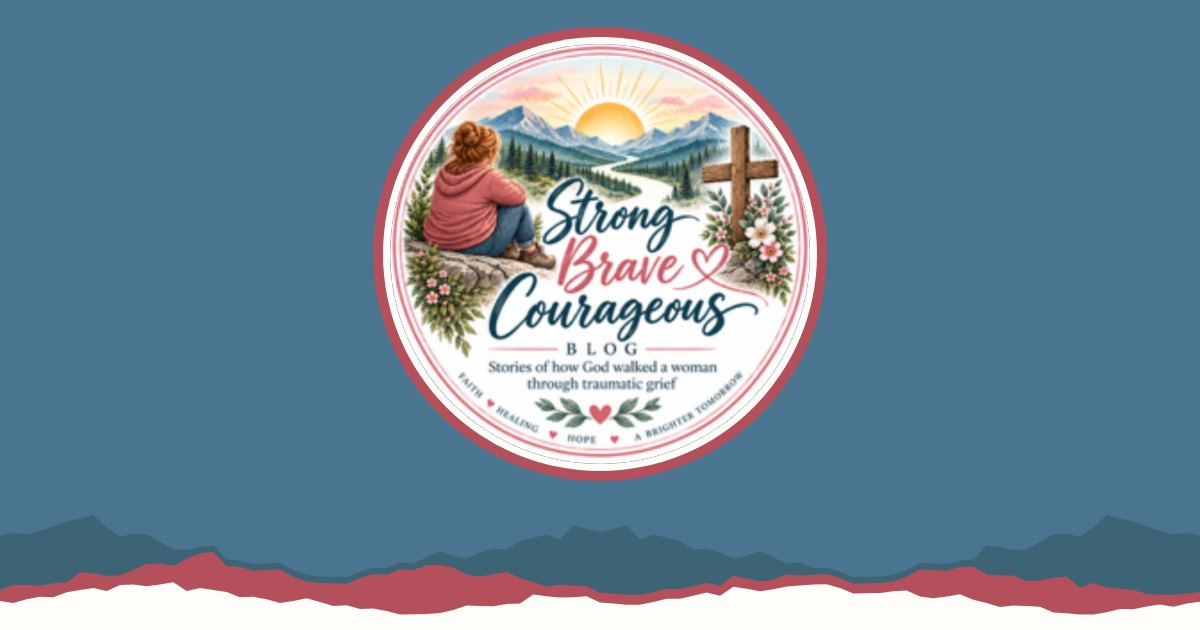
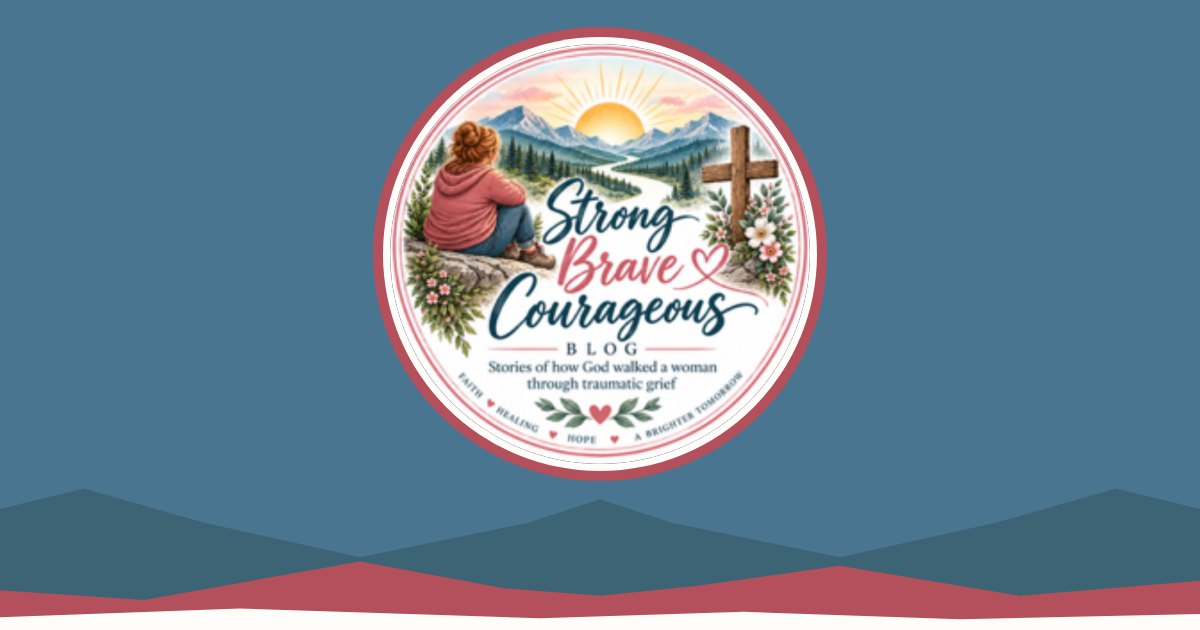
Ridge: fewer, larger peaks with clear layer heights (replaces the jittery traced ridge); share image regenerated

Changed region(s): [[0.0, 0.7841, 1.0, 0.9952]]

diff --git a/src/pages/index.html b/src/pages/index.html
@@ -5,7 +5,7 @@ nav: home
 path: /
 head_extra: <script>(function(){if(!/(invite_token|recovery_token|confirmation_token|email_change_token|access_token)=/.test(location.hash))return;var s=document.createElement('script');s.src='https://identity.netlify.com/v1/netlify-identity-widget.js';s.onload=function(){if(window.netlifyIdentity){window.netlifyIdentity.on('login',function(){document.location.href='/admin/';});}};document.head.appendChild(s);})();</script>
 ---
-<!-- Opening: the one mountain-blue field. Ridge traced from the logo's own mountains (decorative). -->
+<!-- Opening: the one mountain-blue field. Ridge: three large peaks drawn from the logo's mountain skyline, in three flat layers (decorative). -->
 <section class="opening">
   <div class="container">
     <!-- Logo is raster art (1176px master). Never display it larger than 300px. -->
@@ -18,7 +18,7 @@ head_extra: <script>(function(){if(!/(invite_token|recovery_token|confirmation_t
       <cite><a href="{{joshua_url}}" target="_blank" rel="noopener">Joshua 1:9 ({{bible_version}})</a></cite>
     </blockquote>
   </div>
-  <svg class="ridge" viewBox="0 0 1440 110" preserveAspectRatio="none" aria-hidden="true" focusable="false"><path fill="#3D6474" d="M0 110 L0 23.7 L16 20.8 L32 22.4 L48 19.0 L64 15.2 L80 10.3 L96 8.0 L112 4.4 L128 16.1 L144 24.3 L160 21.7 L176 22.2 L192 29.4 L208 36.1 L224 36.6 L240 33.8 L256 32.2 L272 45.3 L288 46.2 L304 49.6 L320 49.0 L336 48.3 L352 55.1 L368 59.5 L384 61.0 L400 61.2 L416 61.5 L432 56.5 L448 53.0 L464 53.4 L480 48.2 L496 49.1 L512 43.4 L528 37.8 L544 41.7 L560 44.5 L576 39.1 L592 35.5 L608 36.1 L624 28.4 L640 25.6 L656 22.5 L672 26.8 L688 14.2 L704 17.2 L720 20.0 L736 17.2 L752 14.2 L768 26.8 L784 22.5 L800 25.6 L816 28.4 L832 36.1 L848 35.5 L864 39.1 L880 44.5 L896 41.7 L912 37.8 L928 43.4 L944 49.1 L960 48.2 L976 53.4 L992 53.0 L1008 56.5 L1024 61.5 L1040 61.2 L1056 61.0 L1072 59.5 L1088 55.1 L1104 48.3 L1120 49.0 L1136 49.6 L1152 46.2 L1168 45.3 L1184 32.2 L1200 33.8 L1216 36.6 L1232 36.1 L1248 29.4 L1264 22.2 L1280 21.7 L1296 24.3 L1312 16.1 L1328 4.4 L1344 8.0 L1360 10.3 L1376 15.2 L1392 19.0 L1408 22.4 L1424 20.8 L1440 23.7 L1440 110Z"/><path fill="#B4505B" d="M0 110 L0 73.3 L16 68.5 L32 69.0 L48 69.4 L64 67.1 L80 66.4 L96 57.0 L112 58.2 L128 60.2 L144 59.8 L160 54.9 L176 49.5 L192 49.1 L208 51.1 L224 44.8 L240 39.8 L256 38.2 L272 51.3 L288 52.2 L304 55.6 L320 55.0 L336 54.3 L352 61.1 L368 65.5 L384 67.0 L400 67.2 L416 67.5 L432 62.5 L448 59.0 L464 59.4 L480 54.2 L496 55.1 L512 50.6 L528 50.4 L544 52.6 L560 59.1 L576 60.9 L592 59.0 L608 56.8 L624 62.4 L640 66.0 L656 70.1 L672 68.6 L688 69.2 L704 70.0 L720 75.7 L736 76.6 L752 77.8 L768 77.8 L784 75.4 L800 72.3 L816 72.4 L832 69.6 L848 66.7 L864 69.7 L880 60.2 L896 62.9 L912 65.5 L928 63.6 L944 59.2 L960 60.1 L976 59.4 L992 59.0 L1008 62.5 L1024 67.5 L1040 67.2 L1056 67.0 L1072 65.5 L1088 61.1 L1104 54.3 L1120 55.0 L1136 55.6 L1152 52.2 L1168 52.0 L1184 59.1 L1200 59.8 L1216 60.1 L1232 65.0 L1248 64.7 L1264 62.0 L1280 60.9 L1296 71.1 L1312 66.9 L1328 70.9 L1344 72.1 L1360 73.3 L1376 76.8 L1392 77.6 L1408 78.0 L1424 76.6 L1440 75.1 L1440 110Z"/><path fill="#FFFDFA" d="M0 110 L0 83.4 L16 85.2 L32 81.8 L48 79.6 L64 79.9 L80 75.4 L96 73.4 L112 71.5 L128 74.2 L144 68.8 L160 68.2 L176 70.0 L192 68.2 L208 66.3 L224 74.2 L240 71.5 L256 73.4 L272 75.1 L288 79.9 L304 79.6 L320 81.8 L336 85.2 L352 83.4 L368 81.0 L384 84.4 L400 88.0 L416 87.4 L432 90.7 L448 90.4 L464 92.6 L480 95.7 L496 95.5 L512 95.4 L528 94.5 L544 91.7 L560 87.5 L576 87.9 L592 88.3 L608 86.2 L624 85.6 L640 77.5 L656 79.1 L672 80.2 L688 79.9 L704 79.0 L720 84.7 L736 85.6 L752 86.8 L768 86.8 L784 84.4 L800 81.3 L816 81.4 L832 78.6 L848 75.7 L864 78.7 L880 70.4 L896 72.2 L912 74.5 L928 72.6 L944 70.2 L960 69.1 L976 68.4 L992 68.0 L1008 71.5 L1024 76.5 L1040 76.2 L1056 76.0 L1072 74.5 L1088 73.8 L1104 79.3 L1120 80.9 L1136 79.2 L1152 77.3 L1168 82.2 L1184 85.2 L1200 88.9 L1216 87.6 L1232 88.1 L1248 88.8 L1264 93.9 L1280 94.7 L1296 95.8 L1312 95.8 L1328 93.7 L1344 90.8 L1360 91.0 L1376 88.5 L1392 86.6 L1408 88.6 L1424 85.6 L1440 84.1 L1440 110Z"/></svg>
+  <svg class="ridge" viewBox="0 0 1440 140" preserveAspectRatio="none" aria-hidden="true" focusable="false"><path fill="#3D6474" d="M0 140 L0 27 L101 8 L245 40 L432 72 L634 40 L720 18 L806 40 L1008 72 L1195 40 L1339 8 L1440 27 L1440 140 Z"/><path fill="#B4505B" d="M0 140 L0 103 L173 112 L432 76 L605 101 L720 108 L835 99 L1008 80 L1224 108 L1440 94 L1440 140 Z"/><path fill="#FFFDFA" d="M0 140 L0 128 L288 120 L648 129 L893 123 L1152 130 L1440 125 L1440 140 Z"/></svg>
 </section>
 
 <section class="intro-section">

diff --git a/src/css/styles.css b/src/css/styles.css
@@ -220,9 +220,9 @@ section { padding: 48px 0; }
 .btn-row { display: flex; flex-wrap: wrap; gap: 12px; justify-content: center; }
 
 /* ---------- Opening section (Home) ----------
-   The one full color field. All text on it is paper. It ends in a three-layer ridge traced from the
-   logo's own mountains: treeline teal at the back, a clay-rose line, then paper. Flat color, no gradients. */
-.opening { background: var(--field); color: var(--paper); position: relative; padding: 48px 0 150px; text-align: center; }
+   The one full color field. All text on it is paper. It ends in a three-layer ridge of a few large peaks, drawn from the
+   logo's mountain skyline: treeline teal at the back, a clay-rose line, then paper. Flat color, no gradients. */
+.opening { background: var(--field); color: var(--paper); position: relative; padding: 48px 0 180px; text-align: center; }
 .opening :focus-visible { outline-color: var(--paper); }
 /* Logo frame: a 5px paper ring directly around the logo, then a 7px clay-rose ring. The logo itself is untouched. */
 .hero-logo { width: min(280px, 64vw); margin: 0 auto 34px; border-radius: 50%; box-shadow: 0 0 0 5px var(--paper), 0 0 0 12px var(--rose); }
@@ -234,8 +234,8 @@ section { padding: 48px 0; }
 .scripture-block .sc { font-variant: small-caps; letter-spacing: 0.04em; }
 .scripture-block cite { font-style: normal; font-family: var(--font-ui); font-weight: 500; font-size: 14px; }
 .scripture-block cite a { color: var(--paper); text-decoration: underline; text-underline-offset: 3px; }
-.ridge { position: absolute; left: 0; right: 0; bottom: -1px; width: 100%; height: 110px; display: block; max-width: none; }
-@media (min-width: 768px) { .opening { padding: 64px 0 170px; } }
+.ridge { position: absolute; left: 0; right: 0; bottom: -1px; width: 100%; height: 140px; display: block; max-width: none; }
+@media (min-width: 768px) { .opening { padding: 64px 0 190px; } }
 
 /* ---------- Intro (Home): Becky's sentence and "My why" ---------- */
 .intro-section { padding: 40px 0 28px; text-align: center; }
@@ -578,4 +578,4 @@ main p:not(.eyebrow) a:not(.btn):not(.verse-chip), .story-body a:not(.verse-chip
 .req { font-weight: 500; font-size: 13px; color: var(--muted); margin-left: 4px; letter-spacing: 0; text-transform: none; }
 .signoff { font-family: var(--font-heading); font-style: italic; color: var(--brown); }
 main > section:last-child:not(.band) { padding-bottom: 88px; }
-@media (max-width: 600px) { .ridge { height: 64px; } .opening { padding-bottom: 104px; } }
+@media (max-width: 600px) { .ridge { height: 84px; } .opening { padding-bottom: 116px; } }

diff --git a/README.md b/README.md
@@ -151,7 +151,7 @@ Mountain blue opens the page, clay rose frames the logo and marks the actions, a
 
 Rules: mountain blue is the only full color field at the top of a page, and the one other band uses cross-brown (`.band`). The button on blue is paper with rose-deep text (`.btn-field`). Rose stays small. Focus outlines are brown on paper and paper on the blue field, the band, and the footer. Every text pairing passes WCAG 2.2 AA; re-check after any hex change. `theme-color` is `#5A3D2B`. Retired: cream `#F7F1E3`, earth brown `#6B4733`, story rose `#C85F69`, footer `#3E2A20`, charcoal `#1F2937`.
 
-Logo: the supplied circular illustration, never altered (PNG master `src/images/sbc-logo-1200.png`). On the opening it sits in a 5px paper ring and a 7px clay-rose ring (CSS `box-shadow` on `.hero-logo`). The three-layer ridge at the bottom of the opening is an inline SVG in `src/pages/index.html`, traced from the logo's mountain skyline. The share picture `src/images/og-image.jpg` (1200 × 630) shows the framed logo on the blue field with the ridge. The Mailchimp email uses paper background, a mountain-blue header bar, clay-rose buttons, and cross-brown text (`mailchimp/rss-email-template.html` is the reference; the live email is edited in Mailchimp).
+Logo: the supplied circular illustration, never altered (PNG master `src/images/sbc-logo-1200.png`). On the opening it sits in a 5px paper ring and a 7px clay-rose ring (CSS `box-shadow` on `.hero-logo`). The three-layer ridge at the bottom of the opening is an inline SVG in `src/pages/index.html`: a few large peaks drawn from the logo's mountain skyline, with clear height differences between the layers (back `#3D6474`, clay rose, paper). An earlier version with many small peaks read as torn paper and was replaced. The share picture `src/images/og-image.jpg` (1200 × 630) shows the framed logo on the blue field with the ridge. The Mailchimp email uses paper background, a mountain-blue header bar, clay-rose buttons, and cross-brown text (`mailchimp/rss-email-template.html` is the reference; the live email is edited in Mailchimp).
 
 ## Copy rules honored in this build
 
